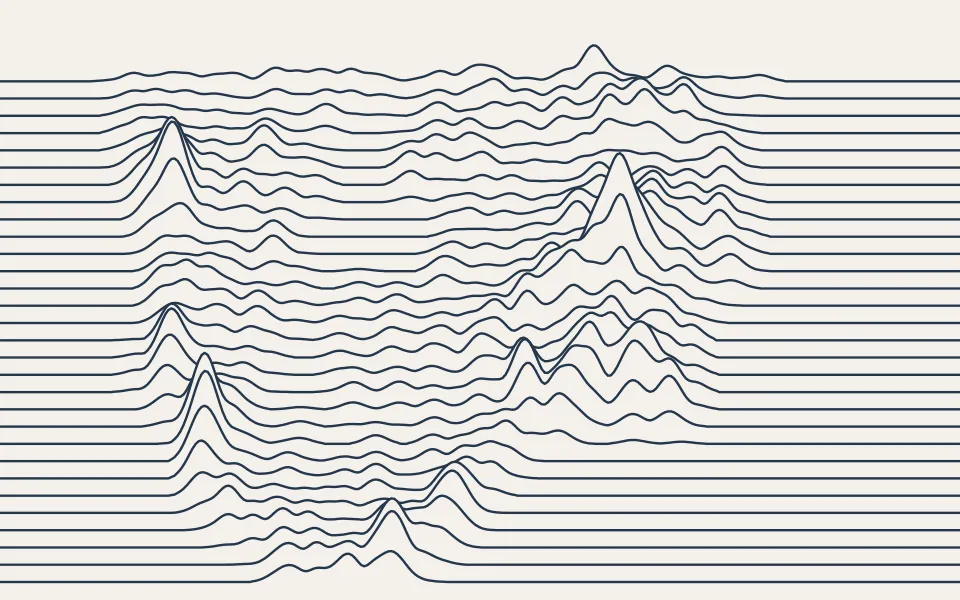
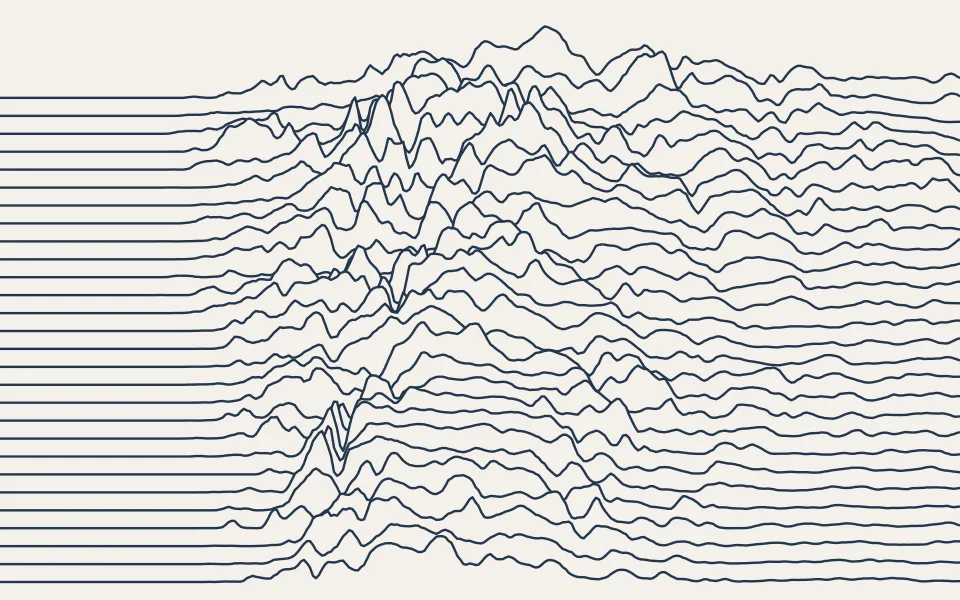
Høydekart card: ridgelines from real terrain instead of population
The Høydekart picture was population lines, so its peaks were Oslo and
Bergen, not mountains. It's now drawn from real elevation: 28 lines of
latitude from the Bergen coast to the Swedish border, raised by the
terrain under them, so Hardangervidda, Jotunheimen, Rondane and Dovre
are the peaks and the fjords cut notches into the plateau. A ^1.5 curve
keeps the lowlands flat so the mountains don't turn into scribble.

Elevation comes from Mapzen Terrain Tiles on AWS Open Data (z8; Norway's
data is Kartverket's DTM), fetched once by scripts/fetch-terrain.mjs and
committed as a ~1 km grid (scripts/data/terrain.png, 8-bit, 10 m per
level, 254 KB). Terrain doesn't change, so the fetch is not in prebuild
and build-thumbs stays offline. Credited on /kilder.

Only hoydekart.webp changes; the other six pictures are byte-identical.

Claude-Session: https://claude.ai/code/session_01RJcKeyYoRbXBDfcXdGm554

Changed region(s): [[0.0, 0.03, 1.0, 0.99]]

diff --git a/src/app/kilder/page.tsx b/src/app/kilder/page.tsx
@@ -80,6 +80,15 @@ const sources = [
     usedIn: ["Hoydekart"],
   },
   {
+    name: "Terrain Tiles (Mapzen, AWS Open Data)",
+    description: "Høydemodell for illustrasjonen på Høydekart-kortet på forsiden: linjer som løftes av terrenget fra Bergen til svenskegrensen.",
+    license: "Varierer per kilde",
+    licenseUrl: "https://github.com/tilezen/joerd/blob/master/docs/attribution.md",
+    attribution: "Norge © Kartverket; Europa: Copernicus EU-DEM; SRTM og GMTED2010: U.S. Geological Survey; ETOPO1: NOAA",
+    url: "https://registry.opendata.aws/terrain-tiles/",
+    usedIn: ["Forsiden"],
+  },
+  {
     name: "Geonorge",
     description: "Adressesok og kommuneinformasjon via offentlige APIer.",
     license: "CC BY 4.0",

diff --git a/CLAUDE.md b/CLAUDE.md
@@ -119,7 +119,8 @@ scripts/
   fetch-health.mjs      — Build-time: Overpass query (scoped to Norway via `area["ISO3166-1"="NO"]`) for `amenity=hospital` and `amenity=clinic`, classifies into sykehus / legevakt / privatklinikker → public/data/health.json
   fetch-valg.mjs        — Build-time: fetches Stortingsvalg 2025/2021 + Kommunestyrevalg 2023/2019 from valgresultat.no (Valgdirektoratet). Remaps pre-2024 kommunenummer to current geometry via fylke-prefix table + name normalization (Sami/Kven secondary names, "Aurskog-Høland" whitespace, "Nes, Buskerud"→Nesbyen rename) → public/data/valg/{type}-{year}.json + index.json manifest
   build-kommune-profiles.mjs — Build-time: composes SSB population/income/bolig/vern/fastlege (12005) + kommunale gebyrer (12842) + eiendomsskatt (14674) + eierstatus (14891) + boligtyper (06265) + utdanningsnivå (09429) + nasjonale prøver (12255) + NVE plants + UDIR schools/barnehager + valg results (latest st + ko) + static files via point-in-polygon and kommunenummer grouping into one profile per kommune → public/data/kommune-profiles.json + public/data/fastlege.json + public/data/kostnader.json. Also calls `generateSnapshot()` from `generate-snapshot.mjs` for each profile so the 3-sentence narrative is baked into the output JSON.
-  build-thumbs.mjs      — `npm run thumbs`. Draws the landing-page card pictures as SVG, rasterised with sharp → src/assets/thumbs/*.webp (committed). Mest populært: Sør-Norge in one shared 16:10 frame (`hoydekart` = population lines — ridgelines, each kommune's SSB population spread over its schools + barnehager by pupils; the peaks are people, not terrain, the card uses it because ridgelines read as mountains — plus valg choropleth, bolig bubbles, stedsprofil population tints). Theme cards, zoomed in, one texture each so they don't read as more copies of those maps: `samfunn` = every school (brand blue, sized by pupils) and barnehage around Oslofjorden, `energi` = every NVE reservoir around Sognefjorden–Hallingdal, `natur` = verne share + turisthytter around Jotunheimen (cabins point-in-polygon filtered — cabins.json's Overpass bbox reaches into Sweden/Finland). Zoomed frames draw full-res kommuner.geojson. No network, no tiles; rerun after a data refresh. Imports partyFill from src/lib/party-colors.ts (Node type-stripping)
+  build-thumbs.mjs      — `npm run thumbs`. Draws the landing-page card pictures as SVG, rasterised with sharp → src/assets/thumbs/*.webp (committed). Mest populært: Sør-Norge in one shared 16:10 frame (`hoydekart` = terrain lines — Unknown Pleasures-style ridgelines raised by real elevation from scripts/data/terrain.png, Bergen coast to the Swedish border, ^1.5 so the lowlands stay flat; plus valg choropleth, bolig bubbles, stedsprofil population tints). Theme cards, zoomed in, one texture each so they don't read as more copies of those maps: `samfunn` = every school (brand blue, sized by pupils) and barnehage around Oslofjorden, `energi` = every NVE reservoir around Sognefjorden–Hallingdal, `natur` = verne share + turisthytter around Jotunheimen (cabins point-in-polygon filtered — cabins.json's Overpass bbox reaches into Sweden/Finland). Zoomed frames draw full-res kommuner.geojson. No network, no tiles; rerun after a data refresh. Imports partyFill from src/lib/party-colors.ts (Node type-stripping)
+  fetch-terrain.mjs     — One-off, NOT in prebuild (terrain doesn't change). Downloads Mapzen Terrain Tiles (AWS Open Data, terrarium z8; Norway's data is Kartverket's DTM) for Sør-Norge, resamples to a ~1 km lat/lon grid → scripts/data/terrain.png (8-bit grey, 1 level = 10 m, sea clamped to 0) + terrain.json (bounds/size/scale). Committed; only build-thumbs reads it. Credited on /kilder
   generate-snapshot.mjs — Pure (no fetches) helper imported by build-kommune-profiles.mjs. Takes a profile + rank totals and returns a `string[]` of 3 sentences: rule-based notability scoring picks the top 3 distinct themes from ~13 candidates (bolig / gebyr / income / vern / hytter / sykehus / fastlege / skoler / nasjonale prøver / demografi-eier / demografi-boliger / demografi-utdanning / geografisk filler). Templates are deliberately factual — never LLM-generated.
 
 public/data/
@@ -472,6 +473,7 @@ Three-tier convention: `-light` for the background tint, base for icons/borders/
 | Finn.no location codes | Scraped from `finn.no/realestate/homes/search.html` (embedded JSON) | Build-time static JSON |
 | Weather | MET.no locationforecast (altitude-corrected on /map) | 30min server cache |
 | Elevation | Kartverket høyde-API | Per-request |
+| Terrain grid (Høydekart card art only) | Mapzen Terrain Tiles on AWS Open Data (Norway © Kartverket) | One-off fetch, committed as scripts/data/terrain.png |
 | Kommune boundaries | GitHub (robhop/fylker-og-kommuner) | Build-time static GeoJSON |
 | Address search | Geonorge adresser API (via `/api/sok` proxy) | 1h edge cache + 24h SWR |
 | Tomtegrenser (matrikkelen) | Kartverket åpent eiendoms-API `ws.geonorge.no/eiendom/v1` (via `/api/eiendom` proxy) | 1h edge cache + 24h SWR |
